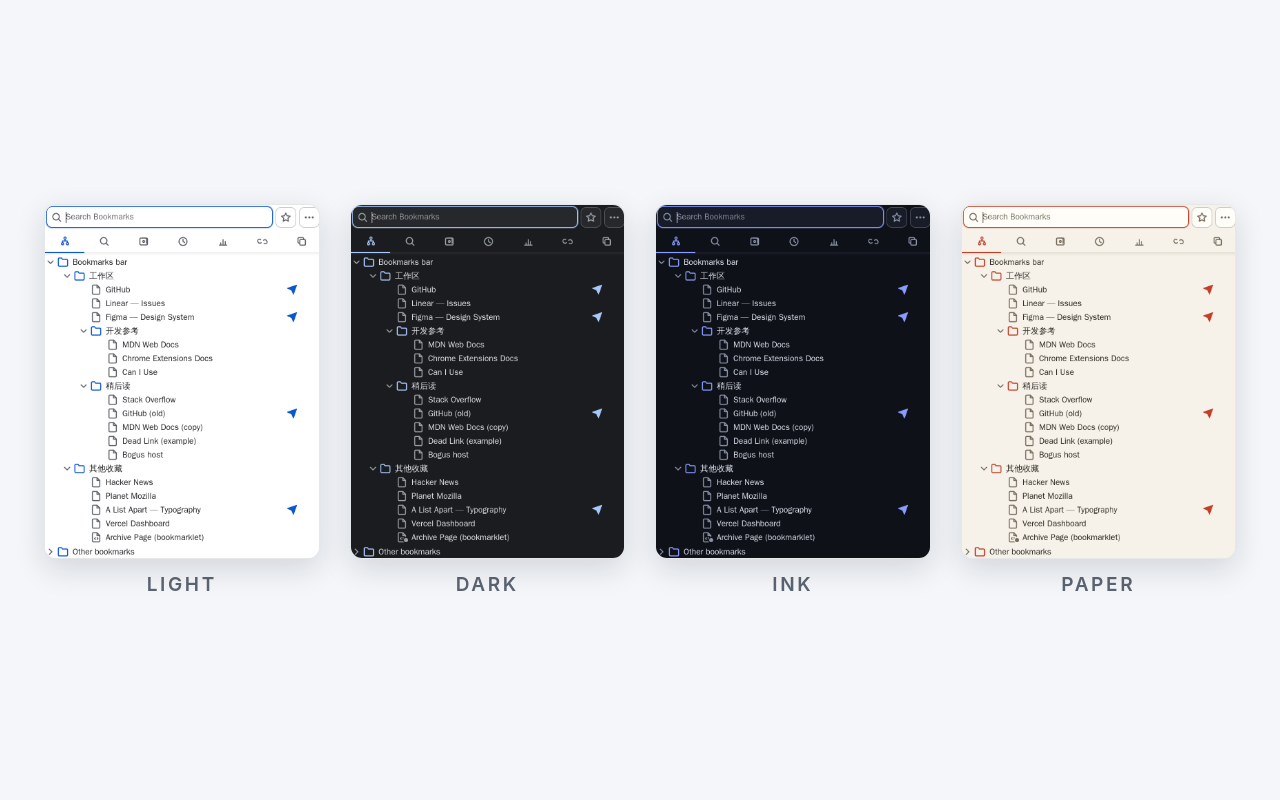
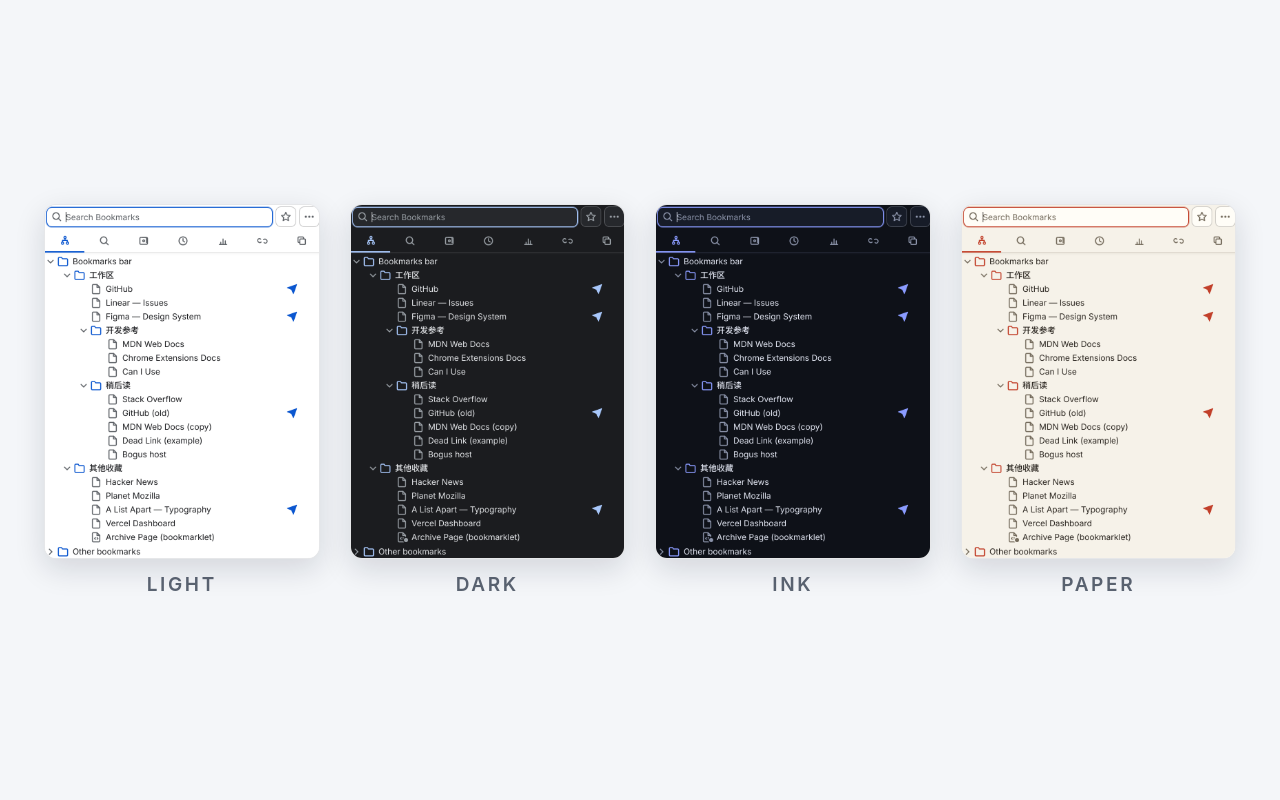
fix(shots): 商店截图字体根治 —— FONT_CSS 注入时机 bug(从未落地)
- 根因:openThemed 的 evaluateOnNewDocument 里 document.documentElement
  .appendChild(style) 跑在 documentElement 存在之前,异常被静默吞掉,
  整条套件自始用默认字体(Latin=Arial,CJK=文泉驿)——字体文件换多少
  次都无效(diag-font-inject 探针实测 styleCount=0)。修复:注入改
  DOMContentLoaded 兜底,并在 reload 后断言 <style> 在场(失败即红)。
- 字体:fetch.sh 只装 NotoSansSC Medium/Bold(Regular 缺席 → fontconfig
  常规字重解析到 Medium,UI 小字号下笔画更挺括;family 别名引用
  Chromium 解析不到,缺席法才有效)。Inter.ttc 全集照旧。
- 选择行守卫:select-all 后 waitForFunction 等行带文本再拍,消除
  view-tabgroups-sel 空行骨架 flake。
- 诊断资产:新增 scripts/harness/diag/diag-font-inject.js 回归探针。
- 六张产物重出(promo/promo2/promo3/strip/themes/marquee;options 与
  tile-small 早前已生效未变):CJK=Noto Sans SC Medium,Latin=Inter;
  promo 右键点右移至行右缘,菜单填充右下空白;marquee 视图关键词为
  安静文本行。normalize 门禁全过,webstore 测试 55/55 绿

diff --git a/scripts/screenshots/shots-store.js b/scripts/screenshots/shots-store.js
@@ -44,7 +44,12 @@ const sleep = ms => new Promise(r => setTimeout(r, ms));
 
 // Store typography (Inter + 思源黑体), installed OS-level by the Dockerfile
 // from scripts/screenshots/fonts/ (fetch.sh; git-ignored) and forced over the
-// containers' bare message-box stack.
+// containers' bare message-box stack. CJK reads as Noto Sans SC MEDIUM:
+// fetch.sh deliberately installs only the Medium/Bold static instances, so
+// fontconfig resolves regular-weight 'Noto Sans SC' to Medium — at tree row
+// sizes (12–13px, composited down to ~8px) Regular strokes go wispy.
+// (Naming 'Noto Sans SC Medium' as a family alias here does NOT resolve in
+// Chromium — the absence-of-Regular route is the one that works.)
 const FONT_CSS = "*{font-family:'Inter','Noto Sans SC','Noto Sans CJK SC',system-ui,sans-serif !important;}";
 
 // Column pairs per sheet: [normal tile, selection tile]. Capture order note:
@@ -210,12 +215,17 @@ const SEED = `
         watch(page, `tile-${theme}`);
         await page.setViewport({ width: 400, height: viewportHeight, deviceScaleFactor: dpr });
         await page.evaluateOnNewDocument((t, css) => {
-            try {
-                localStorage.setItem('theme', t);
+            try { localStorage.setItem('theme', t); } catch (e) {}
+            // FONT_CSS 注入:evaluateOnNewDocument 可能跑在 documentElement
+            // 存在之前 —— 直接 appendChild 会抛异常被静默吞掉,页面就一直用
+            // 默认字体渲染(截图字体丑的根因)。DOMContentLoaded 兜底必达。
+            const inject = () => {
                 const s = document.createElement('style');
                 s.textContent = css;
-                document.documentElement.appendChild(s);
-            } catch (e) {}
+                (document.head || document.documentElement).appendChild(s);
+            };
+            if (document.documentElement) inject();
+            else document.addEventListener('DOMContentLoaded', inject, { once: true });
             // Recent view: fudge dateAdded by index range so the coarse time
             // groups all render (bookmarks.create rejects past dateAdded).
             const DAY = 86400e3;
@@ -232,6 +242,12 @@ const SEED = `
         await page.evaluate(t => chrome.storage.sync.set({ theme: t }), theme);
         await page.reload({ waitUntil: 'domcontentloaded' });
         await sleep(1200);
+        // 字体注入必须真正落地(曾经静默失败整条套件都用默认字体)——
+        // 断言注入的 <style> 在场,失败即记入 errors 让本次运行红掉。
+        const fontCssLanded = await page.evaluate(() =>
+            [...document.querySelectorAll('style')]
+                .some(s => s.textContent.includes('Noto Sans SC')));
+        if (!fontCssLanded) errors.push(`tile-${theme}: FONT_CSS injection missing (default fonts would render)`);
         return page;
     };
 
@@ -351,6 +367,17 @@ const SEED = `
         });
         if (!sel.exit || !sel.ticked)
             errors.push(`${tile}: selection state wrong: ${JSON.stringify(sel)}`);
+        // 行必须带文本再拍 —— 选择模式会触发整表重渲染,过早截图会抓到
+        // 空行骨架(蓝条无字的 flake,曾在 view-tabgroups-sel 命中)。
+        try {
+            await page.waitForFunction(() => {
+                const root = document.querySelector('#views .view:not([hidden])');
+                return root && [...root.querySelectorAll('ul li')]
+                    .some(li => li.textContent.trim().length > 0);
+            }, { timeout: 5000 });
+        } catch {
+            errors.push(`${tile}: rows still empty 5s after select-all`);
+        }
     };
 
     // --- 1. the four theme tree tiles (strip sources) -----------------------
@@ -379,9 +406,11 @@ const SEED = `
                 .find(a => (a.querySelector('i')?.textContent || '').includes('Archive Page'));
             if (!a) throw new Error('bookmark row not found: Archive Page');
             const rect = a.getBoundingClientRect();
+            // 右键点取行右缘 —— 菜单落在右下空白(而非左下),与左上的树
+            // 形成对角构图。
             a.dispatchEvent(new MouseEvent('contextmenu', {
                 bubbles: true, cancelable: true, view: window,
-                clientX: rect.left + 20, clientY: rect.top + 8
+                clientX: rect.right - 24, clientY: rect.top + 8
             }));
             return true;
         });
@@ -729,16 +758,13 @@ const SEED = `
                     clip-path:polygon(8% 28%,50% 62%,92% 28%,92% 46%,50% 80%,8% 46%);"></div>`;
 
     {
-        // 左侧品牌区 + 两排 chips:第一排是七个视图关键词(即功能集合),
-        // 第二排是资历/语言/面板入口。右侧产品卡做成小窗:标题栏(三圆点)
-        // 吃掉卡片圆角,popup 截图从标题栏下方开始、底部再补白边,卡片圆角
-        // 不再切到截图自身的角。
+        // 左侧品牌区:七个视图关键词走一行低调文本(· 分隔,不会换行悬挂),
+        // 资历/语言/面板入口三个 pills 作视觉锚点,两行样式错开、留白充足。
+        // 右侧产品卡做成小窗:标题栏(三圆点)吃掉卡片圆角,popup 截图从
+        // 标题栏下方开始、底部再补白边,卡片圆角不再切到截图自身的角。
         const cardW = 300;
         const imgH = cardW / aspectOf('tree-light');
         const dot = c => `<div style="width:11px;height:11px;border-radius:50%;background:${c};"></div>`;
-        const viewChip = t => `<div style="padding:6px 12px;border-radius:999px;background:rgba(255,255,255,.13);
-                    border:1px solid rgba(255,255,255,.30);font-size:15.5px;font-weight:600;
-                    color:rgba(255,255,255,.95);white-space:nowrap;">${t}</div>`;
         const metaChip = t => `<div style="padding:9px 18px;border-radius:999px;background:rgba(255,255,255,.16);
                     border:1px solid rgba(255,255,255,.35);font-size:18px;font-weight:600;color:#fff;">${t}</div>`;
         await compose('marquee.html', 1400, 560, `
@@ -752,10 +778,9 @@ const SEED = `
         </div>
         <div style="margin-top:28px;font-size:66px;font-weight:800;letter-spacing:-2px;color:#fff;">vBookmarks</div>
         <div style="margin-top:12px;font-size:25px;font-weight:500;color:rgba(255,255,255,.92);">Your bookmarks, one keypress away.</div>
-        <div style="margin-top:26px;display:flex;gap:10px;flex-wrap:wrap;max-width:780px;">
-            ${['Tree', 'Search', 'Tab groups', 'Staging', 'Stats', 'Dead links', 'Duplicates'].map(viewChip).join('')}
-        </div>
-        <div style="margin-top:16px;display:flex;gap:12px;">
+        <div style="margin-top:26px;font-size:17.5px;font-weight:500;letter-spacing:.04em;
+                    color:rgba(255,255,255,.78);">Tree&ensp;·&ensp;Search&ensp;·&ensp;Tab groups&ensp;·&ensp;Staging&ensp;·&ensp;Stats&ensp;·&ensp;Dead links&ensp;·&ensp;Duplicates</div>
+        <div style="margin-top:20px;display:flex;gap:12px;">
             ${['Since 2011', '43 languages', '⌘ + K palette'].map(metaChip).join('')}
         </div>
     </div>

diff --git a/scripts/harness/diag/diag-font-inject.js b/scripts/harness/diag/diag-font-inject.js
@@ -1,0 +1,47 @@
+// diag-font-inject.js — FONT_CSS 注入回归探针(商店截图字体):
+// 复刻 shots-store openThemed 的 evaluateOnNewDocument 注入路径(DOMContentLoaded
+// 兜底版),断言注入的 <style> 真的进了 popup 文档、body 计算字体命中 Inter。
+// 历史事故:直接 document.documentElement.appendChild 在脚本执行时机早于
+// documentElement 存在时抛异常被静默吞掉,整条套件一直用默认字体渲染。
+const puppeteer = require('puppeteer');
+
+const FONT_CSS = "*{font-family:'Inter','Noto Sans SC','Noto Sans CJK SC',system-ui,sans-serif !important;}";
+
+(async () => {
+    const browser = await puppeteer.launch({
+        executablePath: process.env.CHROME_BIN || '/usr/bin/chromium-browser',
+        headless: 'new',
+        args: ['--no-sandbox', '--disable-dev-shm-usage', '--disable-gpu',
+            '--allow-file-access-from-files',
+            '--load-extension=/ext', '--disable-extensions-except=/ext']
+    });
+    await new Promise(r => setTimeout(r, 2000));
+    const targets = await browser.targets();
+    const sw = targets.find(t => t.url().startsWith('chrome-extension://') && t.type() === 'service_worker');
+    const extId = new URL(sw.url()).hostname;
+
+    const page = await browser.newPage();
+    await page.evaluateOnNewDocument((css) => {
+        const inject = () => {
+            const s = document.createElement('style');
+            s.textContent = css;
+            (document.head || document.documentElement).appendChild(s);
+        };
+        if (document.documentElement) inject();
+        else document.addEventListener('DOMContentLoaded', inject, { once: true });
+    }, FONT_CSS);
+    await page.goto(`chrome-extension://${extId}/pages/popup.html`, { waitUntil: 'domcontentloaded' });
+    await new Promise(r => setTimeout(r, 1000));
+    const report = await page.evaluate(() => ({
+        landed: [...document.querySelectorAll('style')]
+            .some(s => s.textContent.includes('Noto Sans SC')),
+        bodyFont: getComputedStyle(document.body).fontFamily
+    }));
+    console.log(JSON.stringify(report, null, 1));
+    await browser.close();
+    if (!report.landed) {
+        console.error('FAIL: FONT_CSS injection did not land');
+        process.exit(1);
+    }
+    console.log('OK: FONT_CSS injection landed');
+})().catch(e => { console.error('FAIL:', e.message); process.exit(1); });
